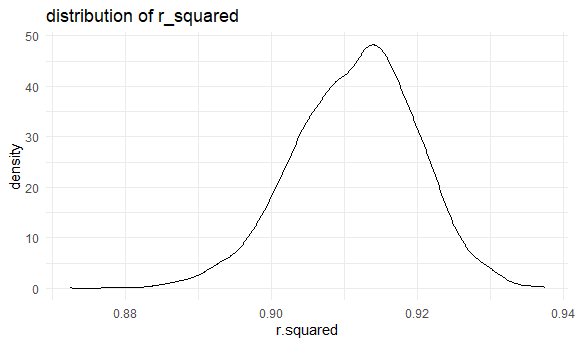
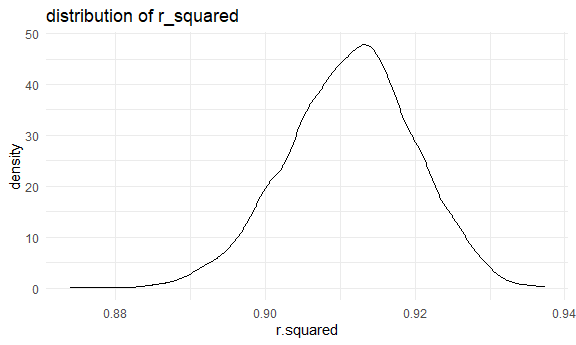
minor change

diff --git a/p8105_hw6_yl4604.md b/p8105_hw6_yl4604.md
@@ -71,8 +71,6 @@ homicide_df %>%
   select(city_state, term, or,ci_lwr, ci_upr) 
 ```
 
-Create a plot that shows the estimated ORs and CIs for each city. Organize cities according to estimated OR, and comment on the plot
-
 ``` r
 homi_result %>% 
   filter(term == 'victim_raceWhite') %>% 
@@ -87,8 +85,6 @@ homi_result %>%
 
 Problem 2
 ---------
-
-Load and clean the data for regression analysis (i.e. convert numeric to factor where appropriate, check for missing data, etc.).
 
 ``` r
 birthwt_df = read_csv('data/birthweight.csv')%>% 
@@ -151,7 +147,7 @@ birthwt_df %>% skimr::skim_without_charts()
 | smoken         |           0|               1|     4.15|    7.41|    0.00|     0.00|     0.00|     5.00|    60.0|
 | wtgain         |           0|               1|    22.08|   10.94|  -46.00|    15.00|    22.00|    28.00|    89.0|
 
-### propose a model
+propose a model
 
 There is sense that mother's pre-birth BMI will have a positive impact on babybirthweight, and a mother who is smoking would have negtive impact on babybirth weight.
 
@@ -191,7 +187,7 @@ birthwt_df %>%
 
 <img src="p8105_hw6_yl4604_files/figure-markdown_github/unnamed-chunk-7-1.png" width="90%" />
 
-### setted model
+setted model
 
 ``` r
 model_1 = lm(bwt ~ blength + gaweeks, data = birthwt_df)
@@ -300,8 +296,6 @@ According to the plot, the second model, which is model\_2(using head circumfere
 Problem 3
 ---------
 
-For this problem, we’ll use the 2017 Central Park weather data that we’ve seen elsewhere. The code chunk below (adapted from the course website) will download these data.
-
 ``` r
 weather_df = 
   rnoaa::meteo_pull_monitors(
@@ -327,6 +321,7 @@ weather_df =
     ## file min/max dates: 1869-01-01 / 2020-09-30
 
 ``` r
+set.seed(1)
 boot_straps = 
   weather_df %>% 
   modelr::bootstrap(n = 5000) %>% 
@@ -380,12 +375,10 @@ boot_straps %>%
     r_squared_ci_lower = quantile(r.squared, 0.025), 
     r_squared_ci_upper = quantile(r.squared, 0.975),
     result_ci_lower = quantile(result, 0.025), 
-    result_ci_upper = quantile(result, 0.975))
+    result_ci_upper = quantile(result, 0.975)) %>% 
+  knitr::kable(caption = '95% CIs')
 ```
 
-    ## # A tibble: 1 x 4
-    ##   r_squared_ci_lower r_squared_ci_upper result_ci_lower result_ci_upper
-    ##                <dbl>              <dbl>           <dbl>           <dbl>
-    ## 1              0.894              0.927            1.97            2.06
-
-r<sup>2\ log(β</sup>0∗β^1) Use 5000 bootstrap samples and, for each bootstrap sample, produce estimates of these two quantities. Plot the distribution of your estimates, and describe these in words. Using the 5000 bootstrap estimates, identify the 2.5% and 97.5% quantiles to provide a 95% confidence interval for r^2 and log(β<sup>0∗β</sup>1). Note: broom::glance() is helpful for extracting r^2 from a fitted regression, and broom::tidy() (with some additional wrangling) should help in computing log(β<sup>0∗β</sup>1)
+|  r\_squared\_ci\_lower|  r\_squared\_ci\_upper|  result\_ci\_lower|  result\_ci\_upper|
+|----------------------:|----------------------:|------------------:|------------------:|
+|              0.8936684|               0.927106|           1.964949|           2.058887|
